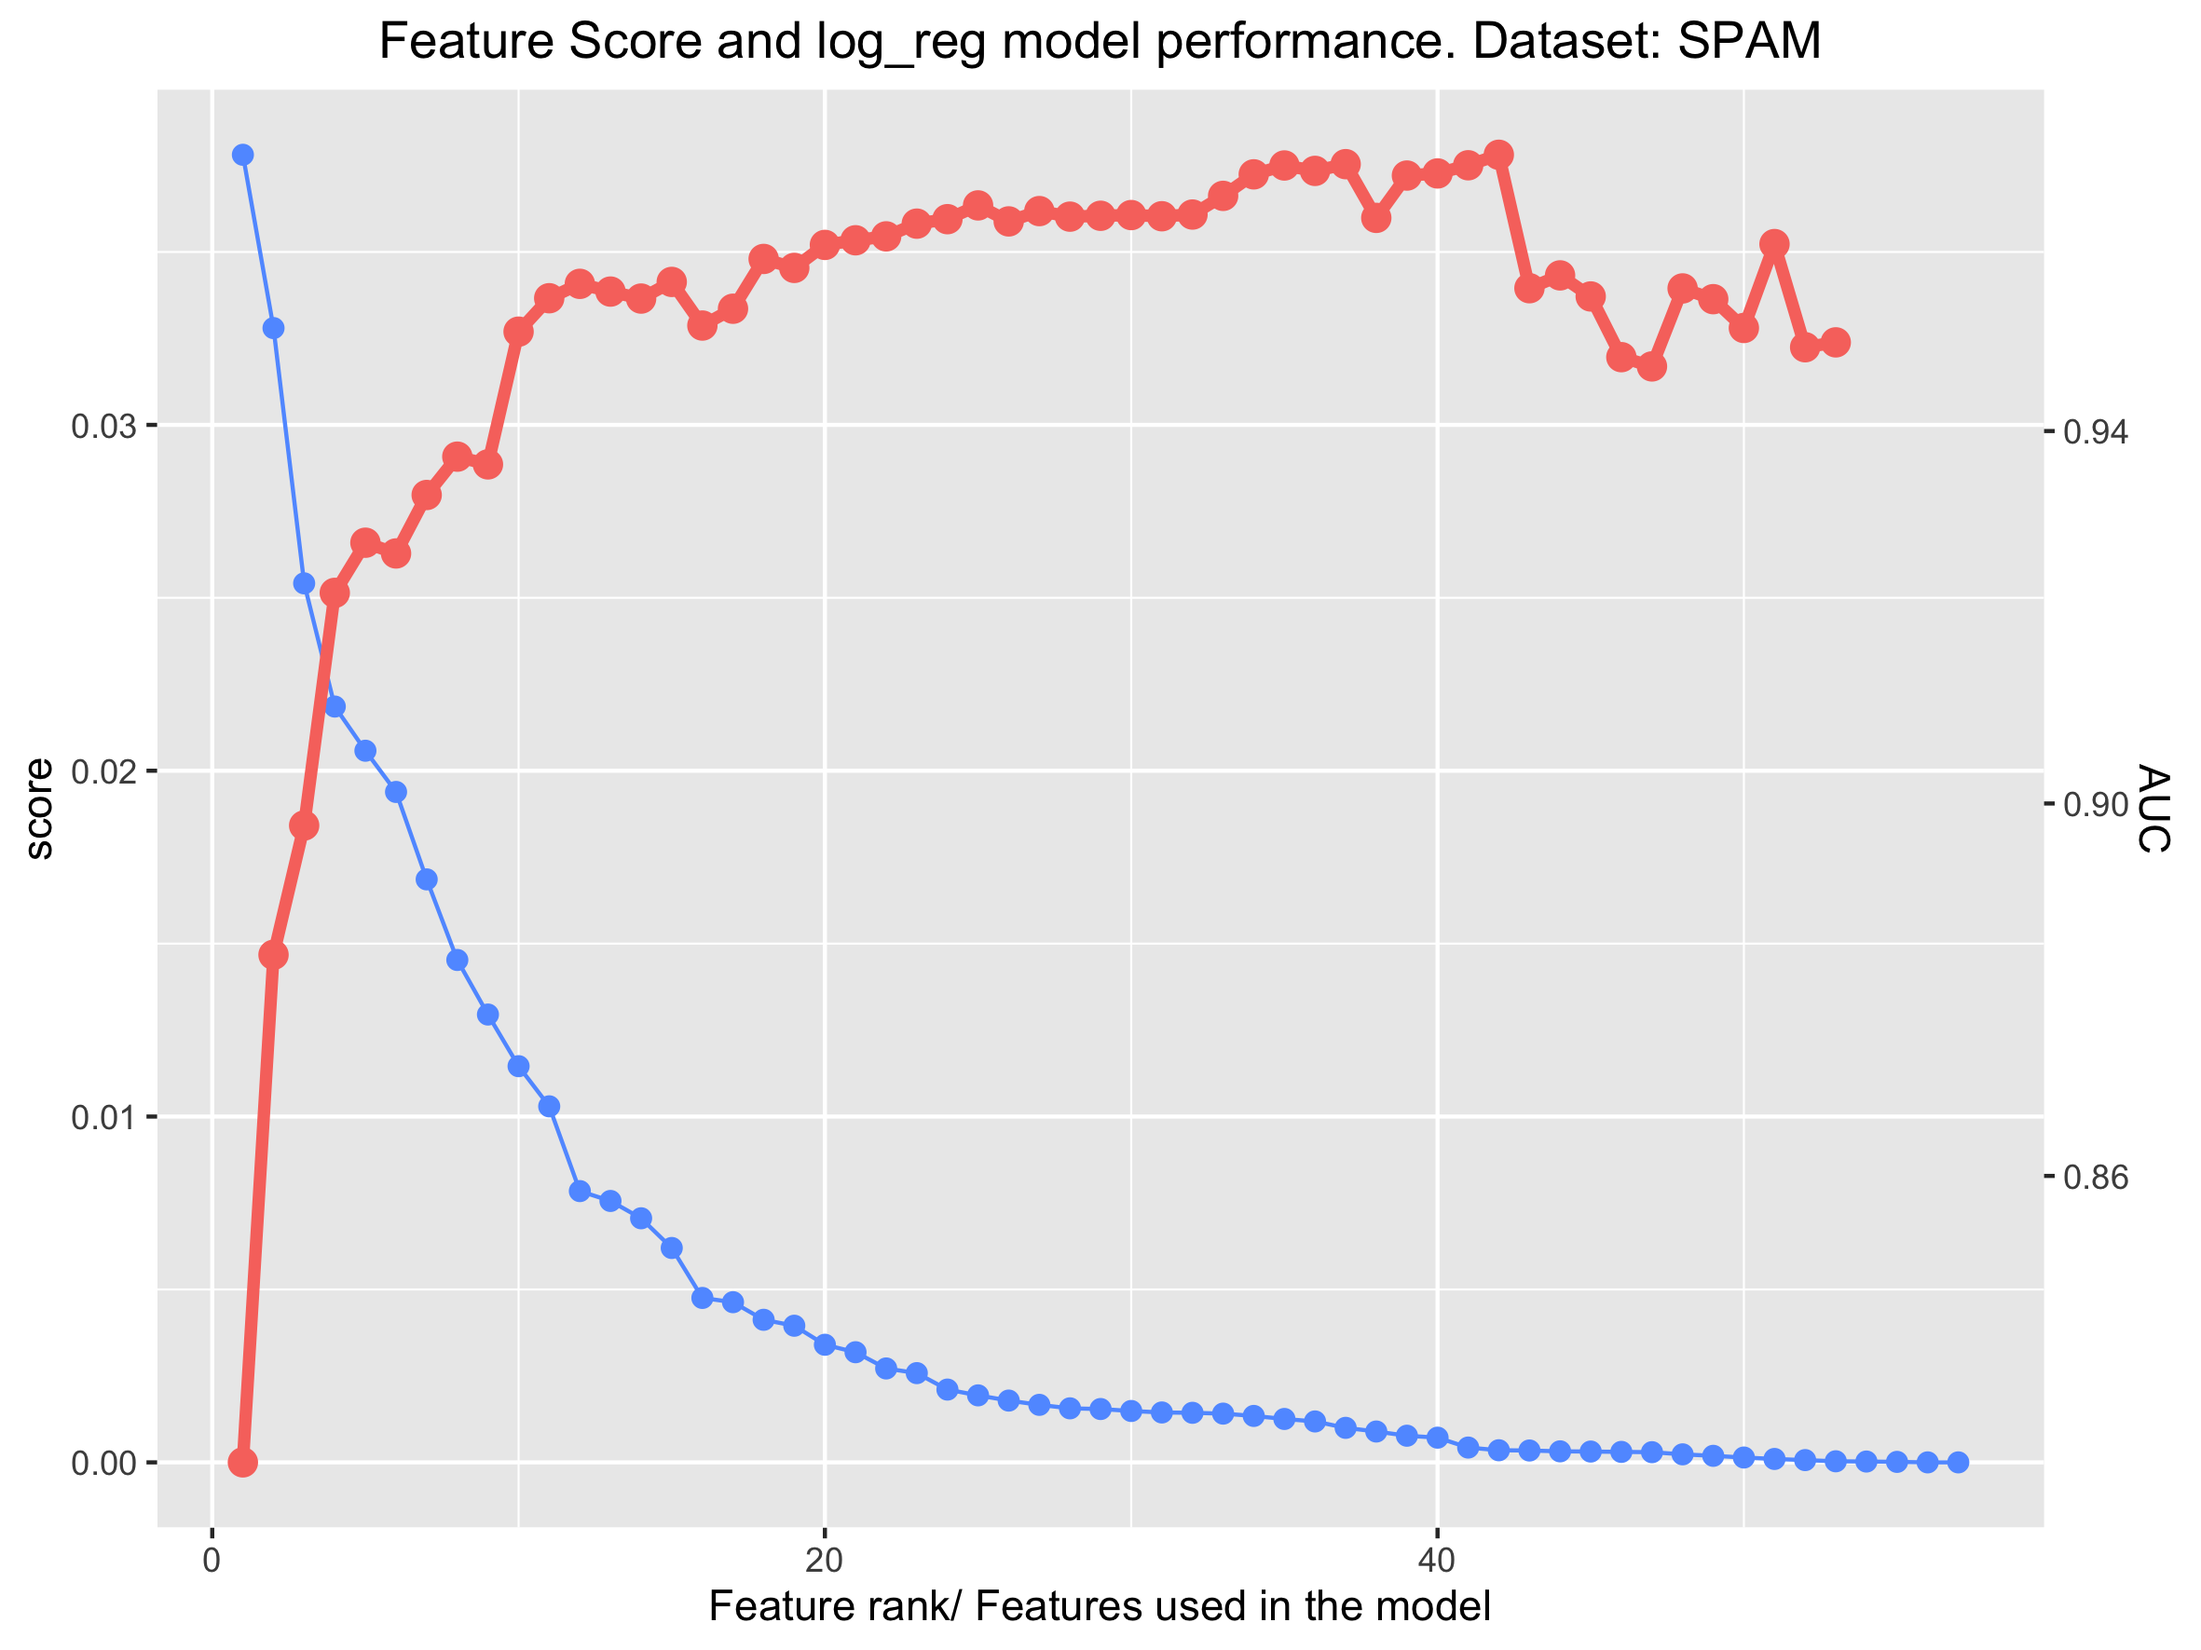
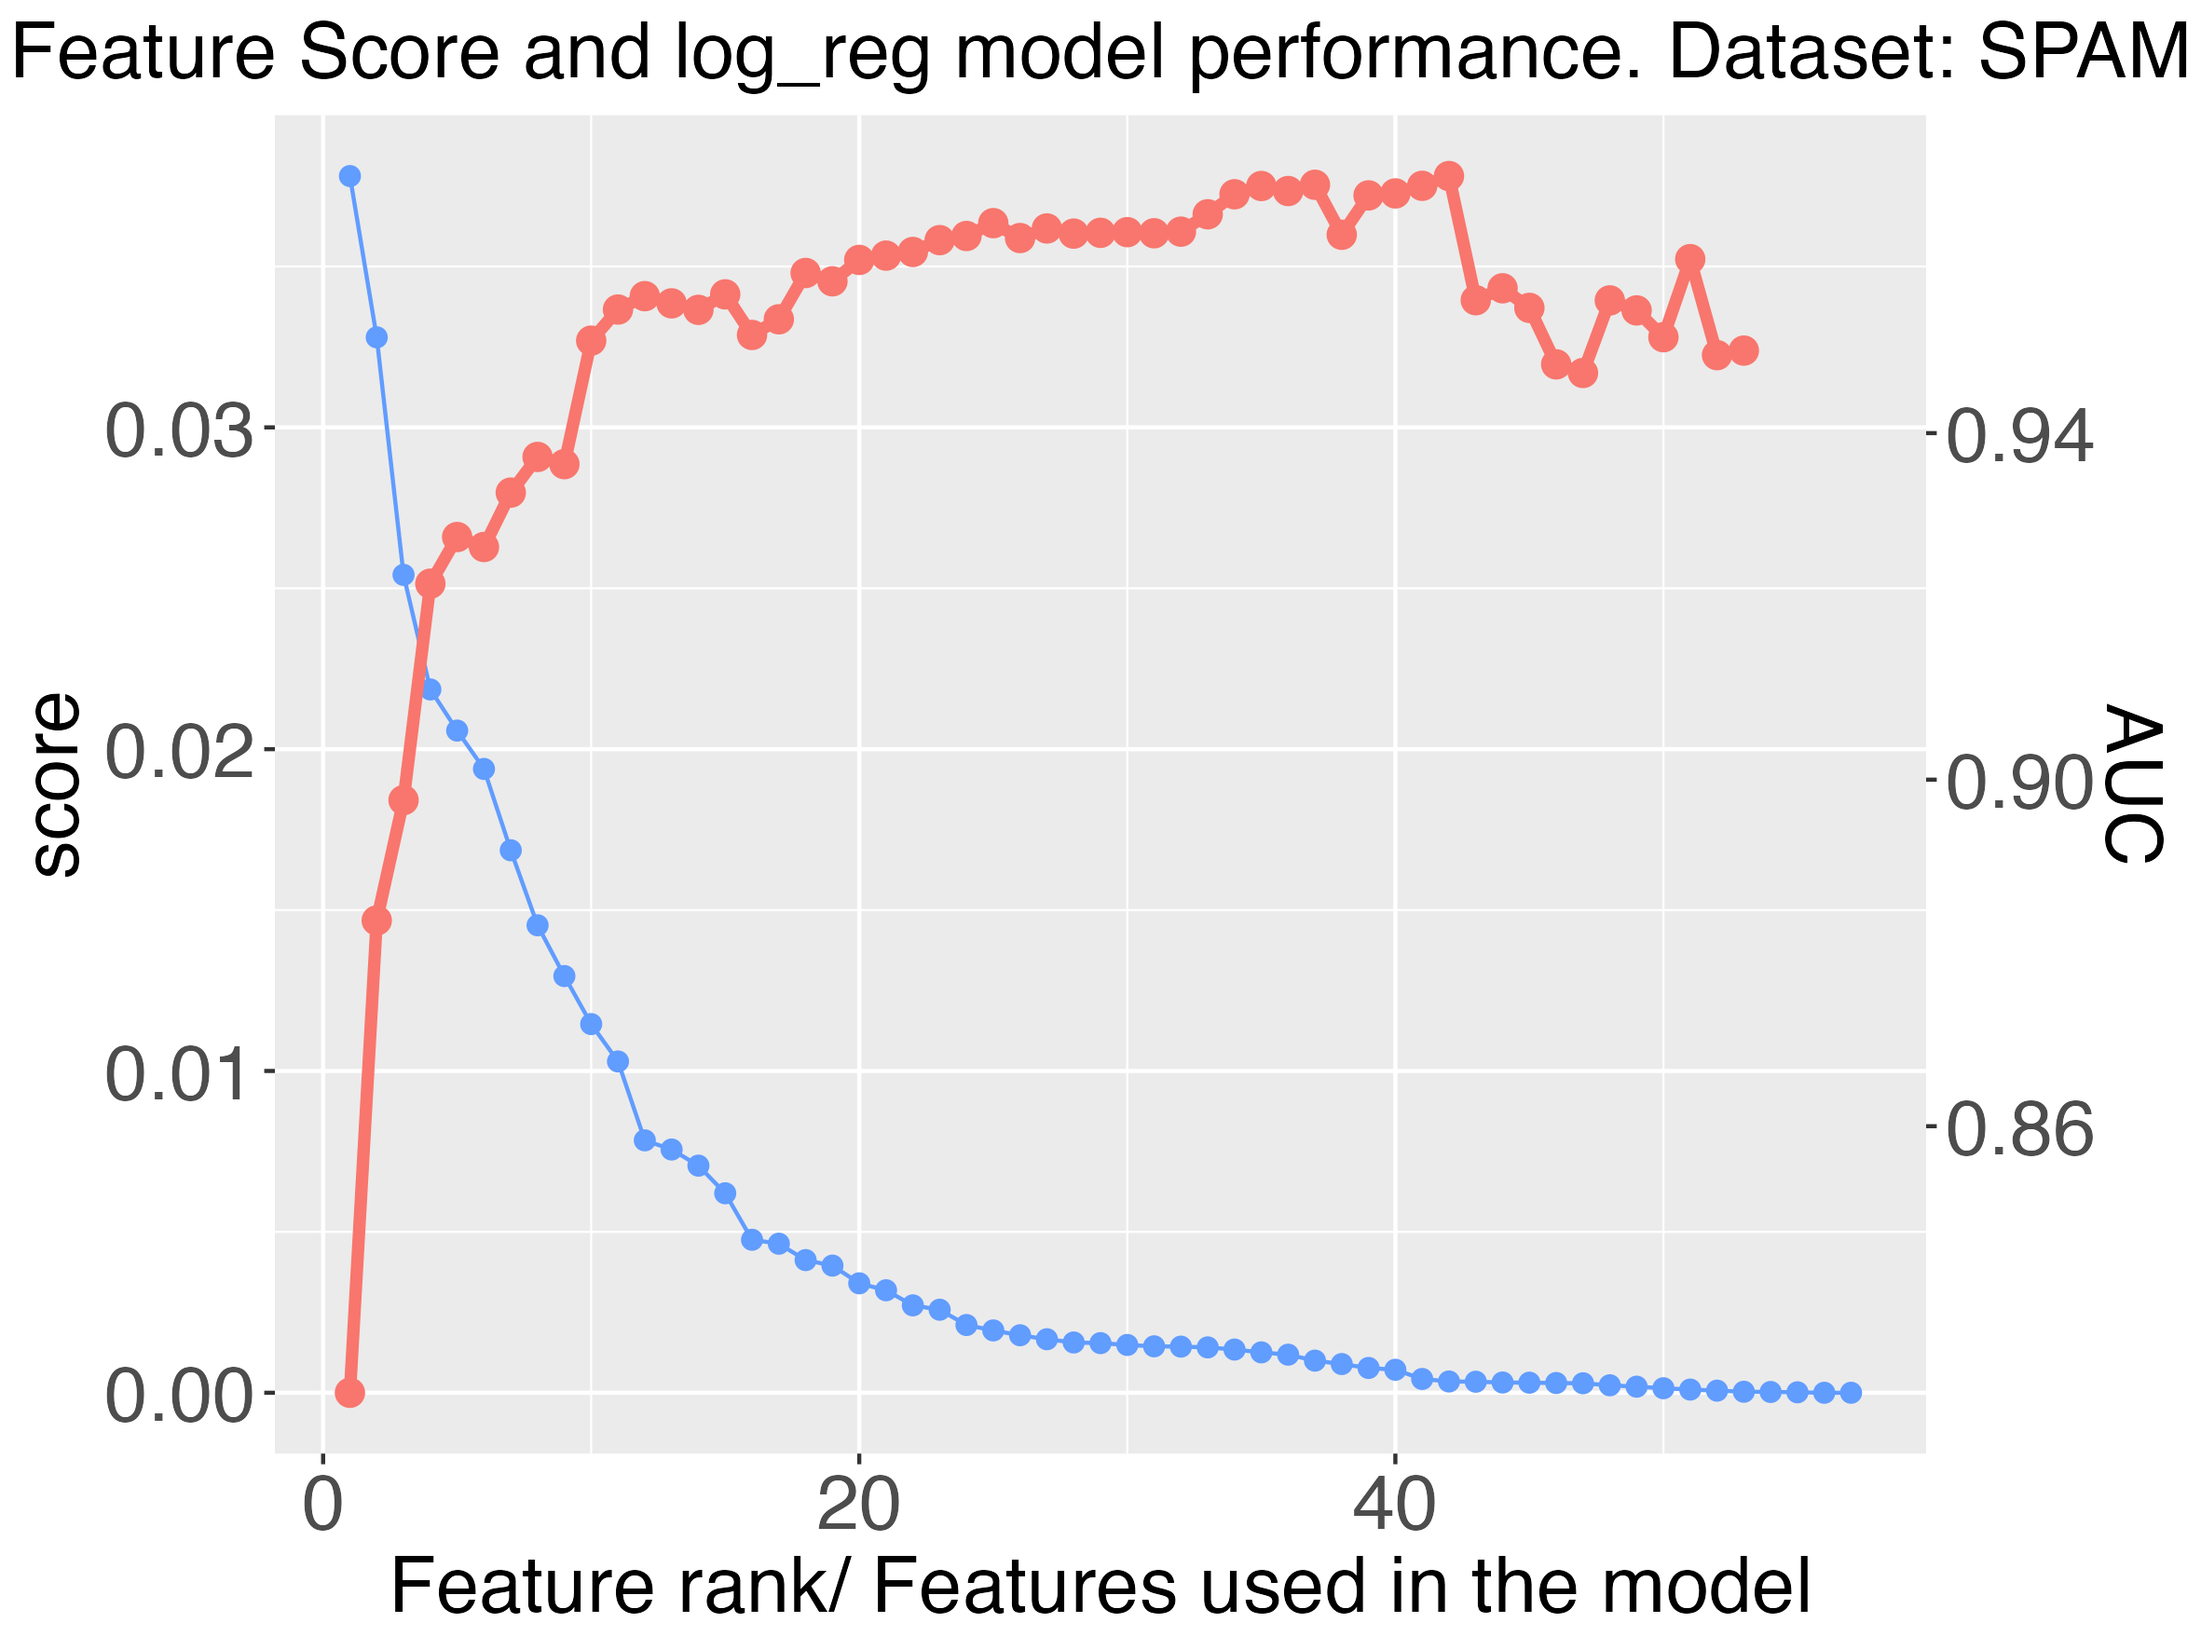
Move comparison plot to 5/6, improve readability

diff --git a/slides/feature-selection/slides-fs-filters2.tex b/slides/feature-selection/slides-fs-filters2.tex
@@ -37,7 +37,7 @@
     \includegraphics[width=0.48\textwidth]{figure/filter_comparison_har_classif.kknn.png}
   \end{figure}
   \end{center}
-  
+
   \end{vbframe}
 
 %\begin{vbframe}{Visualization of filter algorithms}
@@ -129,7 +129,8 @@
     \end{minipage}
     \end{figure}
 \vspace{0.3cm}
-\footnotesize{\textbf{IG from presumably redundant variables}. Left: 2 class problem with i.i.d. variables. Each class has Gaussian distr. with no covariance. Right: After 45 degree rotation, showing combination of 2 vars yields separation improvement by factor $\sqrt{2}$, showing i.i.d. vars are not truly redundant. For further details, see \citebutton{Guyon and Elisseeff, 2003}{https://www.jmlr.org/papers/volume3/guyon03a/guyon03a.pdf}.}
+%\footnotesize{\textbf{IG from presumably redundant variables}. Left: 2 class problem with i.i.d. variables. Each class has Gaussian distr. with no covariance. Right: After 45 degree rotation, showing combination of 2 vars yields separation improvement by factor $\sqrt{2}$, showing i.i.d. vars are not truly redundant. For further details, see \citebutton{Guyon and Elisseeff, 2003}{https://www.jmlr.org/papers/volume3/guyon03a/guyon03a.pdf}.}
+\footnotesize{\textbf{IG from presumably redundant variables}. Left: 2 class problem with i.i.d. variables. Each class has Gaussian distr. with no covariance. Right: After 45 degree rotation, showing combination of 2 vars yields separation improvement by factor $\sqrt{2}$, showing i.i.d. vars are not truly redundant. For further details, see Guyon and Elisseeff, 2003.}
    %\footnotesize{Isabelle Guyon, André Elisseeff (2003). An Introduction to Variable and Feature Selection.  Journal of Machine Learning Research (3) p. 1157-1182.}
 
    \framebreak
@@ -152,7 +153,7 @@
 \footnotesize{\textbf{Intra-class covariance}. In projection onto the axes, distribution of two variables are same as before. Left: Class conditional distribution have high cov. in direction of the line of the two class centers. Right: Class conditional distr. have high cov. in direction perpendicular to line of two class centers. Important separation gain is obtained by using both variables.}
 
  \framebreak
-   
+
 
     %%%%%%%%%%%%%%%%%%%%%%%%%
       %%%%%%%%%%%%%%%%%%%%%%%%
@@ -176,7 +177,7 @@
 \end{vbframe}
 
 \begin{vbframe}{Using Filter Methods}
-  
+
 % \begin{minipage}{0.45\textwidth}
 %     \centering
 %     \includegraphics[width=\textwidth]{figure/guyon_example_xor.png} % second figure itself
@@ -193,7 +194,7 @@
           \item Choose $\tilde{p}$ best features.
           \item Train model on $\tilde{p}$ best features.
         \end{enumerate}
-      
+
         \begin{blocki}{How to choose $\tilde{p}$?}
           \item It can be prescribed by the application.
           \item Eyeball estimation: read from filter plots
@@ -201,15 +202,18 @@
         \end{blocki}
     \end{column}
 
-    \begin{column}{0.5\textwidth}
+   \begin{column}{0.46\textwidth}
       %\vspace{1cm}
       \begin{figure}
         \centering
-        %\includegraphics[width=0.98\textwidth]{figure/filter_comparison_har_classif.kknn.png}
-        \includegraphics[width=0.98\textwidth, height=0.45\textheight]{figure/fs-filters-scree-plot.png} % second figure itself  
+        \includegraphics[width=0.89\textwidth]{figure/filter_comparison_har_classif.kknn.png}
+      \end{figure}
+      \vspace{-0.4cm}
+      \begin{figure}
+      \includegraphics[width=0.89\textwidth]{figure/fs-filters-scree-plot.png}
       \end{figure}
     \end{column}
-  
+
   \end{columns}
 
 
@@ -237,42 +241,42 @@
   % <<echo=TRUE>>=
   % # Calculate the information gain as filter value
   % fv = generateFilterValuesData(iris.task, method = "information.gain")
-  
+
   % # We can also pass multiple filter methods at once:
   % fv2 = generateFilterValuesData(iris.task,
   %   method = c("information.gain", "chi.squared"))
-  
+
   % # fv2 is a FilterValues object and fv2$data holds a data frame
   % # with the importance values for all features
   % fv2$data
   % @
-  
+
   % <<>>=
   % plotFilterValues(fv2) + ggtitle("Filters for the 4 features of iris dataset")
   % @
-  
-  
+
+
   % \framebreak
-  
+
   % <<size="tiny", echo=TRUE>>=
   % ## Keep the 2 most important features
   % filtered.task = filterFeatures(iris.task, method = "information.gain", abs = 2L)
-  
+
   % ## Keep the 25% most important features
   % filtered.task = filterFeatures(iris.task, fval = fv, perc = 0.25)
-  
+
   % ## Keep all features with importance greater than 0.5
   % filtered.task = filterFeatures(iris.task, fval = fv, threshold = 0.5)
   % filtered.task
   % @
-  
+
   % \framebreak
 
   % \begin{itemize}
   %   \item Filter methods are often part of the data preprocessing process, wherein a subsequent step, a learning method is applied.
   %   \item In practice we want to automate this, so the feature selection can be part of the validation method of our choice:
   % \end{itemize}
-  
+
   % <<size="tiny", echo=TRUE>>=
   % lrn = makeFilterWrapper(learner = "classif.kknn",
   %   fw.method = "anova.test", fw.abs = 2L)
@@ -281,7 +285,7 @@
   % )
   % ctrl = makeTuneControlGrid()
   % rdesc = makeResampleDesc("CV", iters = 10L)
-  
+
   % res = tuneParams(lrn, task = iris.task, resampling = rdesc, par.set = ps,
   %   control = ctrl)
   % res$opt.path
